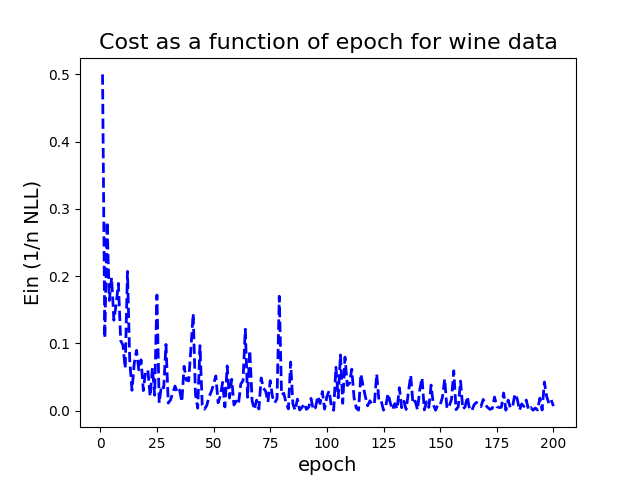
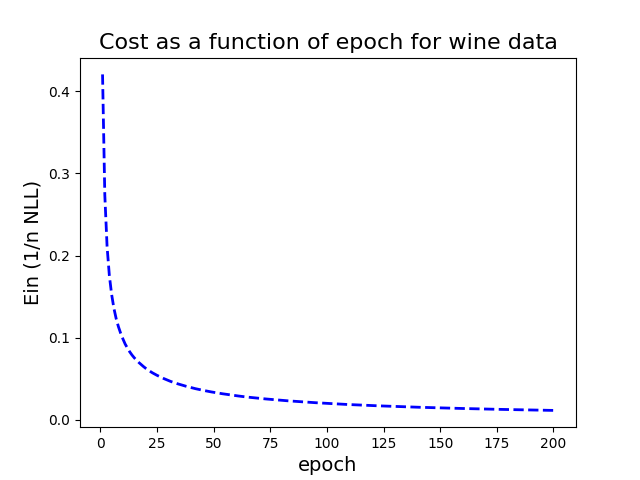
handlin 1 corrections

diff --git a/Handin1/Logistic Regression/logistic_regression.py b/Handin1/Logistic Regression/logistic_regression.py
@@ -97,9 +97,10 @@ class LogisticRegressionClassifier():
 
                 w = w - lr * gradient
 
-                history.append(cost)
+                # history.append(cost)
                 print(f"Epoch: {epoch+1} Cost: {cost}")
-
+            cost,gradient=self.cost_grad(X,y,w)
+            history.append(cost)
         self.w = w
         self.history = history
 

diff --git a/Handin1/Softmax/softmax.py b/Handin1/Softmax/softmax.py
@@ -113,7 +113,7 @@ class SoftmaxClassifier():
                 gradient = cost_grad[1]
 
                 W = W - lr * gradient
-
+            cost,_=self.cost_grad(X,Y,W)
             history.append(cost)
             print(f'Epoch: {epoch + 1}; Cost: {cost}')
 
